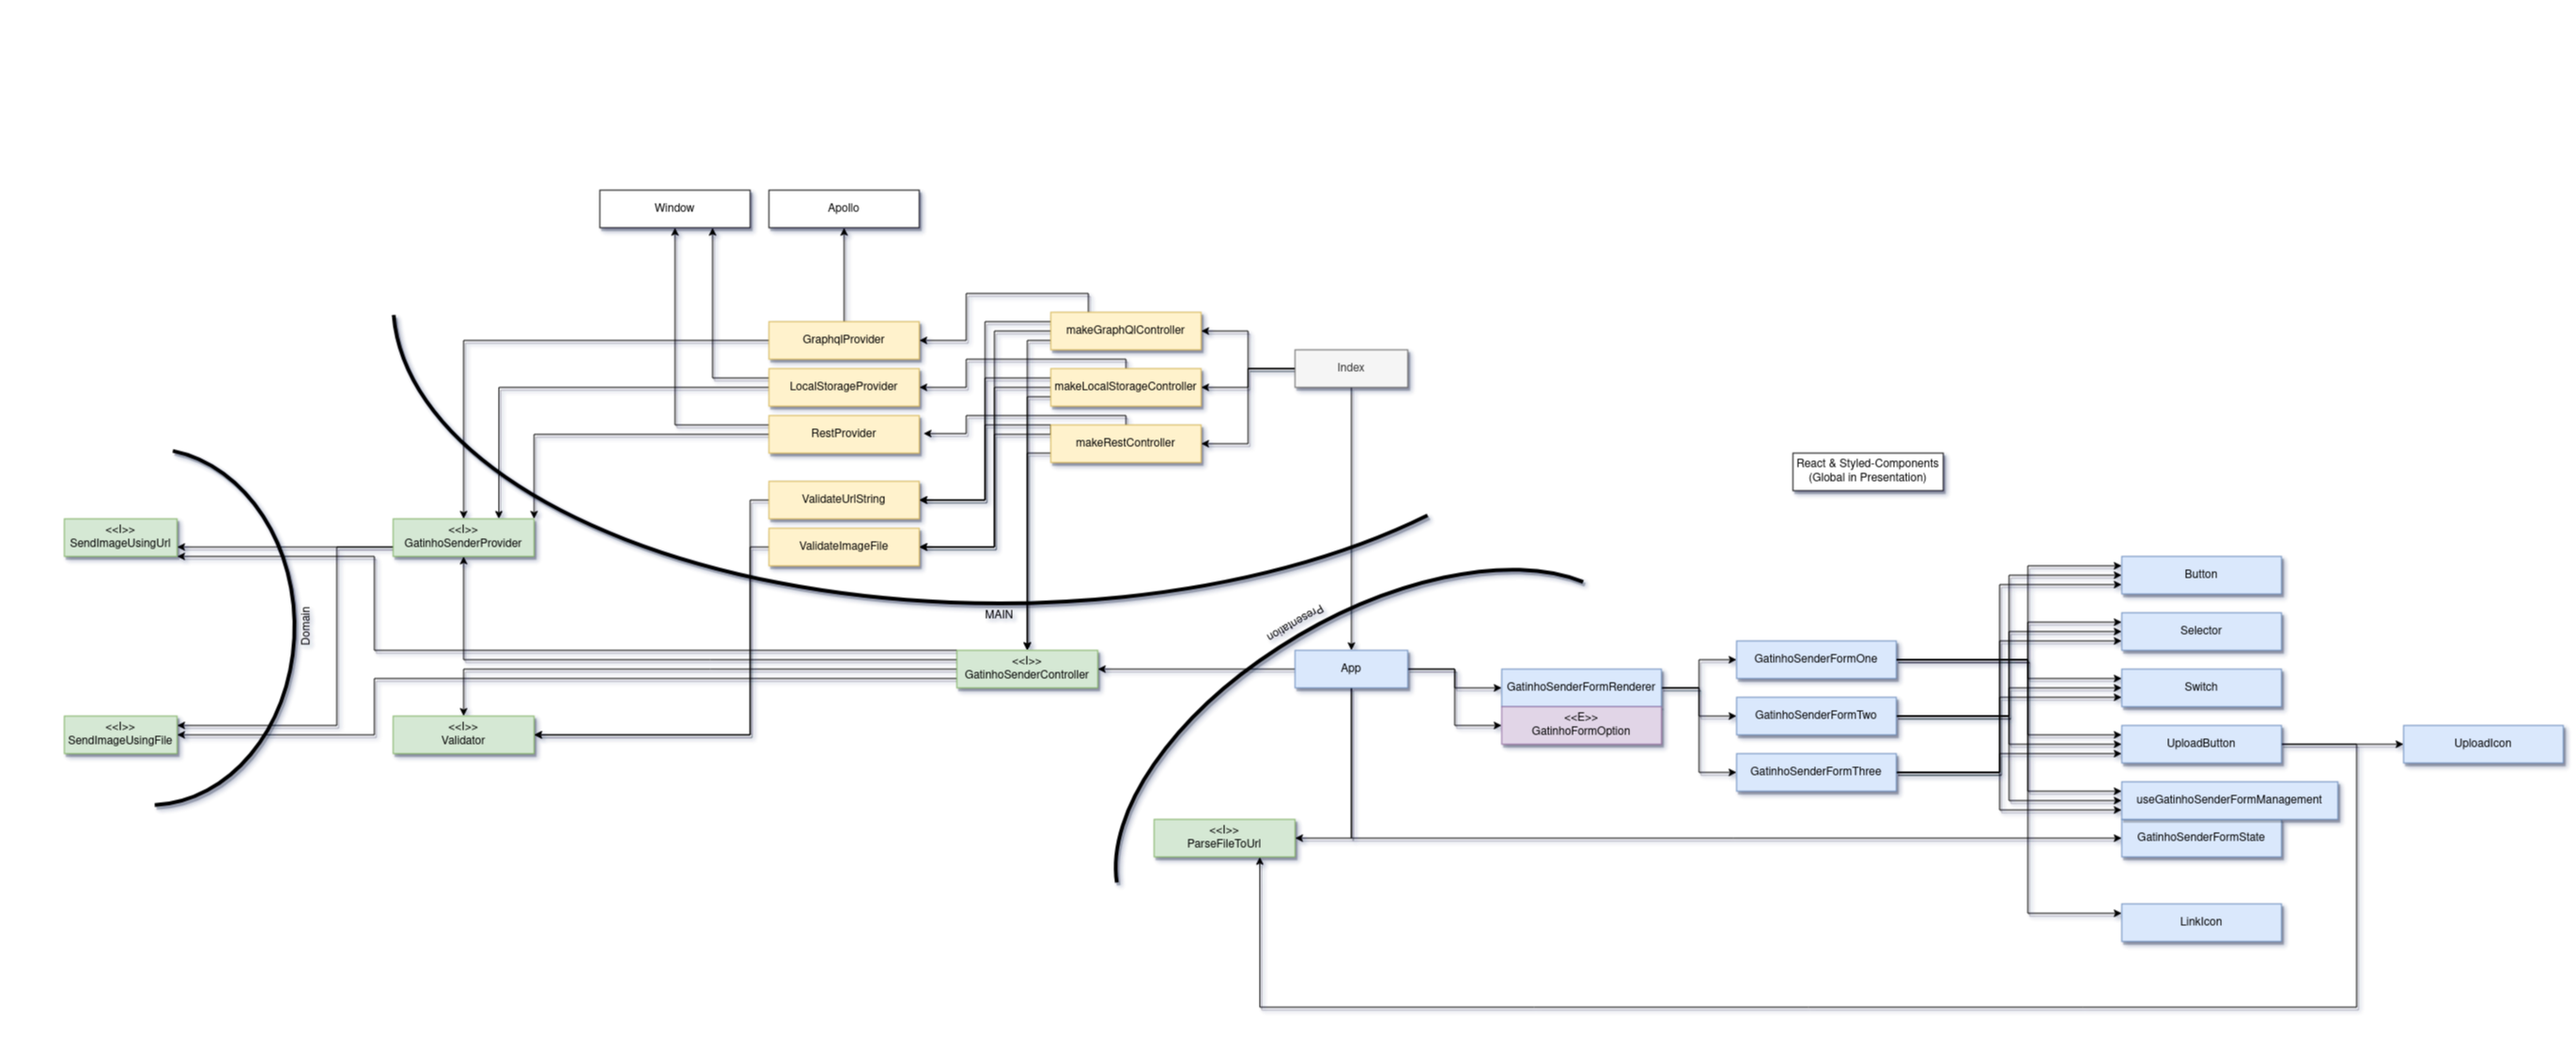
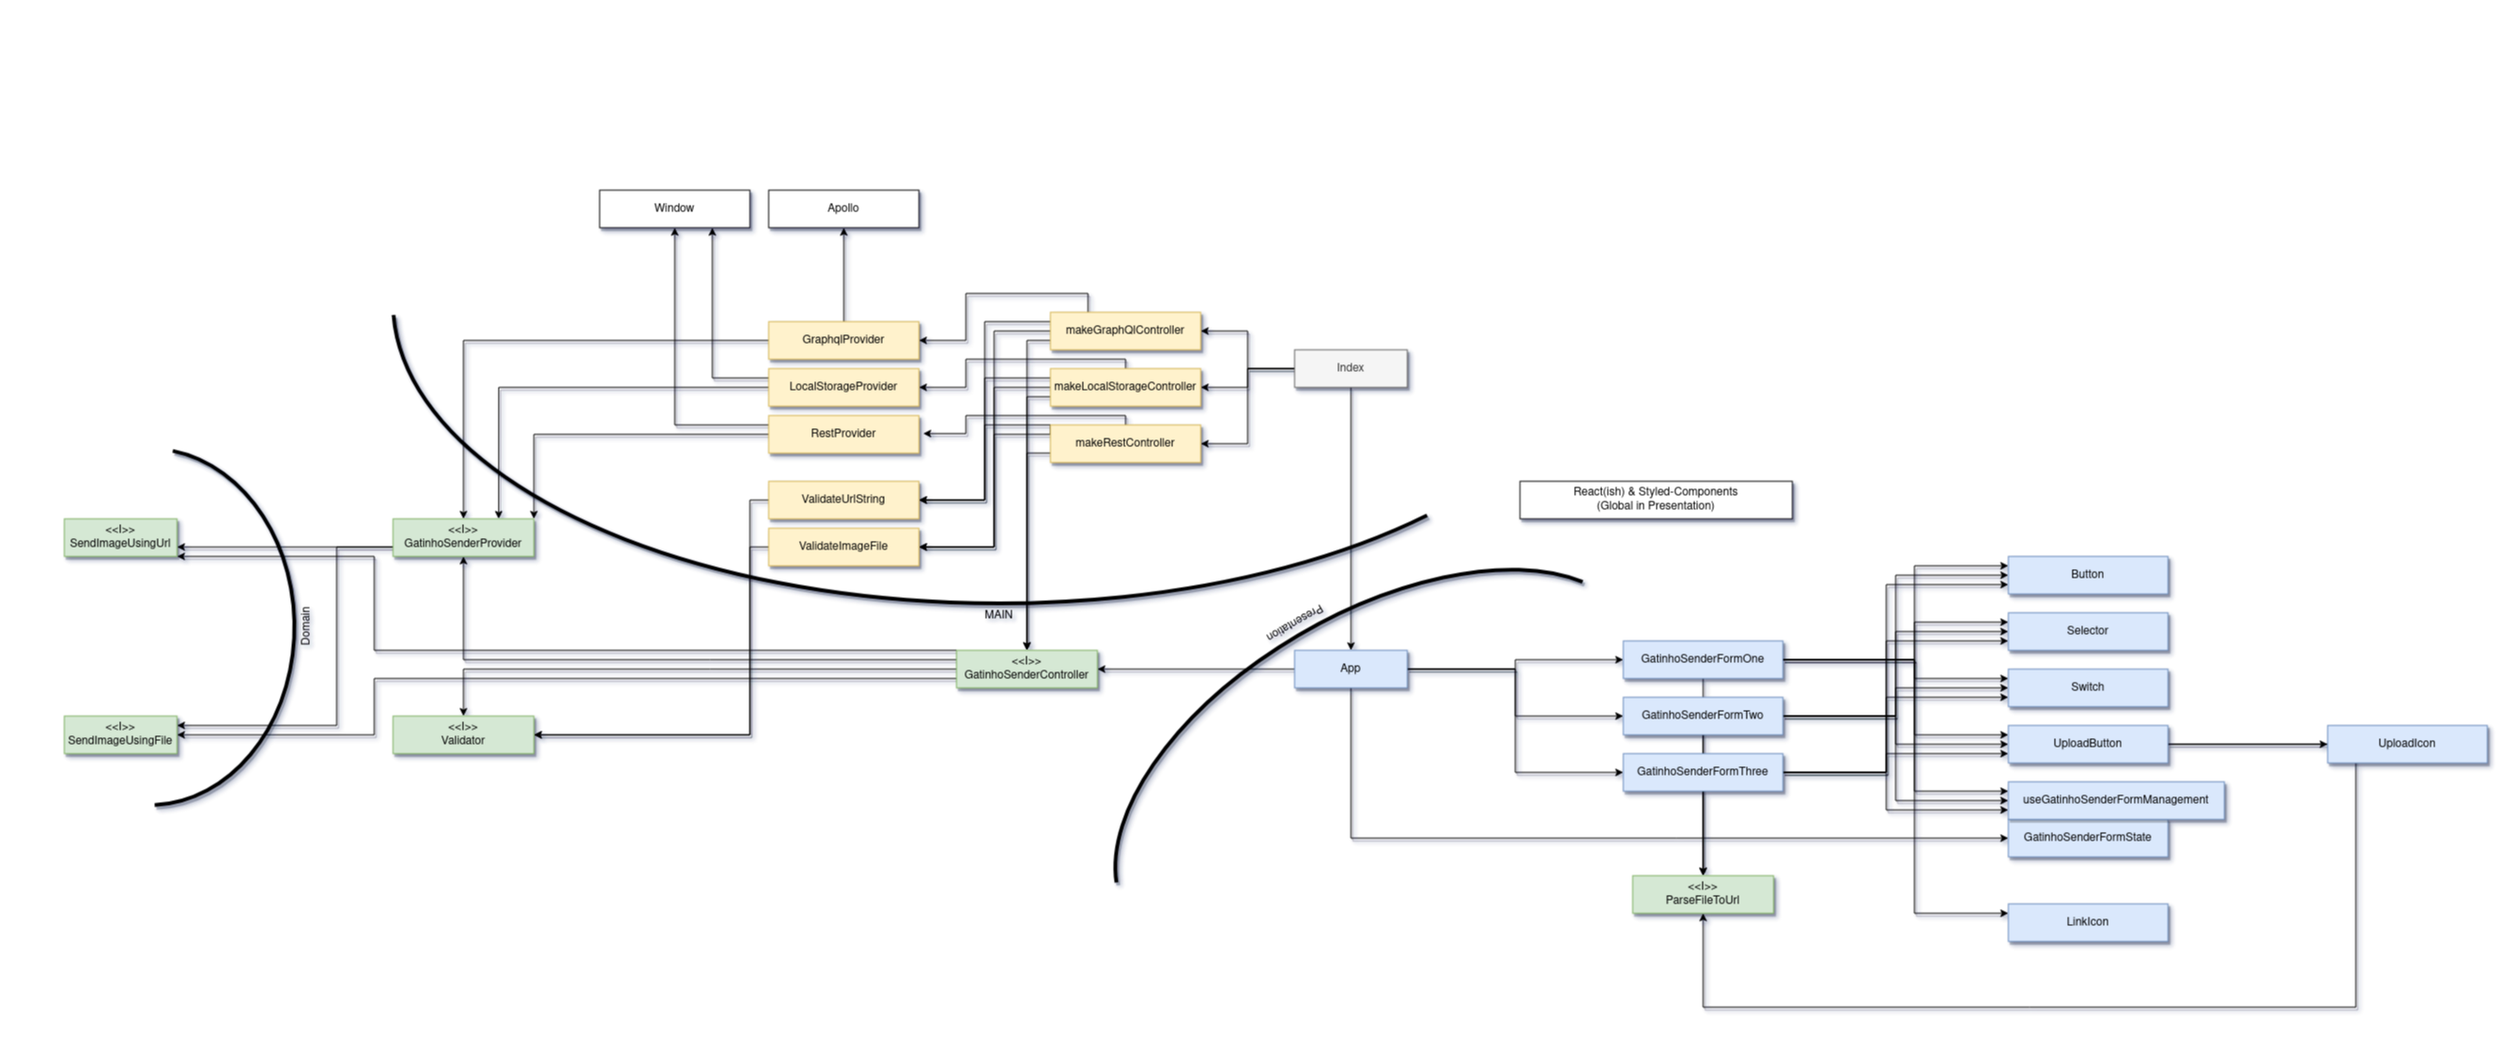
change strategy

diff --git a/src/App.tsx b/src/App.tsx
@@ -1,11 +1,14 @@
 import React from "react";
 
-import {
-  GatinhoFormOption,
-  GatinhoSenderFormRenderer,
-} from "./presentation/containers";
+import { Route, Switch, Router } from "react-router";
 import { GatinhoSenderFormState } from "./presentation/components/GatinhoSenderForm/hooks";
 import { GatinhoSenderController } from "./presentation/controllers";
+import {
+  GatinhoSenderFormOne,
+  GatinhoSenderFormThree,
+  GatinhoSenderFormTwo,
+} from "./presentation/components/GatinhoSenderForm";
+import { createBrowserHistory } from "history";
 
 type AppProps = {
   controller: GatinhoSenderController;
@@ -39,12 +42,28 @@ function App({ controller }: AppProps) {
   return (
     <div className="App">
       <h1>Gatinho Sender</h1>
-
-      <GatinhoSenderFormRenderer
-        formOption={GatinhoFormOption.THREE}
-        onSubmit={handleSubmit}
-        fileToUrlParser={URL.createObjectURL}
-      />
+      <Router history={createBrowserHistory()}>
+        <Switch>
+          <Route path="/three">
+            <GatinhoSenderFormThree
+              onSubmit={handleSubmit}
+              fileToUrlParser={URL.createObjectURL}
+            />
+          </Route>
+          <Route path="/two">
+            <GatinhoSenderFormTwo
+              onSubmit={handleSubmit}
+              fileToUrlParser={URL.createObjectURL}
+            />
+          </Route>
+          <Route path="/">
+            <GatinhoSenderFormOne
+              onSubmit={handleSubmit}
+              fileToUrlParser={URL.createObjectURL}
+            />
+          </Route>
+        </Switch>
+      </Router>
     </div>
   );
 }
